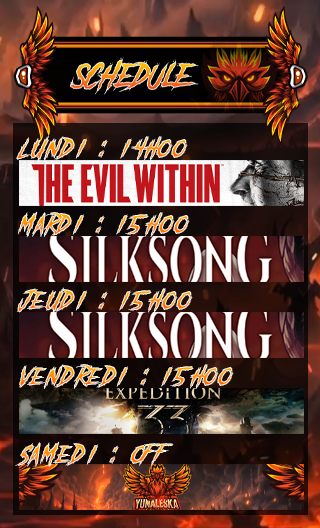
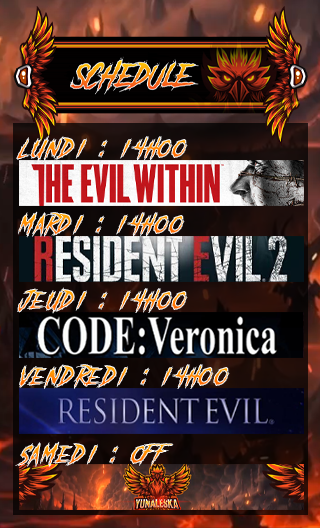
games and achievements updated

Changed region(s): [[0.0625, 0.3939, 0.9688, 0.8485]]

diff --git a/assets/scripts/updates.js b/assets/scripts/updates.js
@@ -1,73 +1,70 @@
 export const updates = [
   {
-    version: "1.26",
-    date: "12-10-2025",
+    version: "1.27",
+    date: "17-11-2025",
     messages: {
       fr: {
         features: [
-          "○ Mise à jour des succès Hollow Knight: Silksong (Steam)",
-          "○ Mise à jour des succès Phasmophobia (Steam)",
-          "○ Mise à jour des succès Borderlands 4 (Steam)",
-          "○ Mise à jour des succès Borderlands (Steam)",
+          "○ Calendrier hebdomadaire pour la semaine du 17 novembre 2025",
+
           "○ Mise à jour des succès The Evil Within (Steam)",
-          "○ Ajout du jeu Megabonk et de ses succès (Steam)",
-          "○ Ajout du jeu Paranormal Night Shift et de ses succès (Steam)",
-          "○ Ajout du jeu The Demonologist et de ses succès (Steam)",
-          "○ Ajout du jeu The Last of Us Part I et de ses succès (Steam)",
-          "○ Ajout du jeu Lost in Random et de ses succès (Steam)",
-          "○ Ajout du jeu Haven et de ses succès (Steam)",
-          "○ Ajout du jeu inZOI (Steam)",
-          "○ Ajout du jeu Dead Island 2 et de ses succès (Steam)",
-          "○ Ajout du jeu Tomb Raider IV-VI Remastered et de ses succès (Steam)",
-          "○ Ajout du jeu AI Limit et de ses succès (Steam)",
-          "○ Ajout de la traduction portuguaise."
+          "○ Mise à jour des succès Phasmophobia (Steam)",
+          "○ Mise à jour des succès Resident Evil 6 (Steam)",
+          "○ Mise à jour des succès Megabonk (Steam)",
+          "○ Mise à jour des succès Powerwash Simulator (Steam)",
+          "○ Mise à jour des trophées The Callisto Protocol (PS5)",
+
+          "○ Ajout du jeu Powerwash Simulator 2 et de ses succès (Steam)",
+          "○ Ajout du jeu Tormented Souls 2 et de ses succès (Steam)",
+          "○ Ajout du jeu Kitaria Fables et de ses succès (Steam)",
+          "○ Ajout du jeu Stray et de ses succès (Steam)",
+          "○ Ajout du jeu Biped 2 et de ses succès (Steam)",
+          "○ Ajout du jeu Bongo Cat et de ses succès (Steam)",
+          "○ Ajout du jeu Beacon Pines et de ses succès (Steam)",
+          "○ Ajout du jeu Elypse et de ses succès (Steam)",
+          "○ Ajout du jeu Alan Wake II et de ses trophées (PS5)",
+          "○ Ajout du jeu Tormented Souls II et de ses trophées (PS5)"
         ],
         fixes: [
-
+          "○ Correction de la couleur du patch notes sur la page Steam",
+          "○ La version sur le footer se met désormais automatiquement à jour",
+          "○ Réparation de la couleur indiquant que l'on est sur la page RetroAchievements"
         ]
       },
       en: {
         features: [
-          "○ Updated Hollow Knight achievements (Steam)",
-          "○ Updated Phasmophobia achievements (Steam)",
-          "○ Updated Borderlands 4 achievements (Steam) (Steam)",
-          "○ Updated Borderlands achievements (Steam)",
+          "○ Weekly schedule for the week of the 17th of november 2025",
+
           "○ Updated The Evil Within achievements (Steam)",
-          "○ Added the game Megabonk and its achievements",
-          "○ Added the game Paranormal Night Shift and its achievements",
-          "○ Added the game The Demonologist and its achievements",
-          "○ Added the game The Last of Us Part I and its achievements",
-          "○ Added the game Lost in Random and its achievements",
-          "○ Added the game Haven and its achievements",
-          "○ Added the game inZOI",
-          "○ Added the game Dead Island 2 and its achievements",
-          "○ Added the game Tomb Raider IV-VI Remastered and its achievements",
-          "○ Added the game AI Limit and its achievements",
-          "○ Added Portuguese translation"
+          "○ Updated Phasmophobia achievements (Steam)",
+          "○ Updated Resident Evil 6 achievements (Steam)",
+          "○ Updated Megabonk achievements (Steam)",
+          "○ Updated Powerwash Simulator achievements (Steam)",
+          "○ Updated The Callisto Protocol trophies (PS5)",
+
+          "○ Added the game Powerwash Simulator 2 and its achievements (Steam)",
+          "○ Added the game Tormented Souls 2 and its achievements (Steam)",
+          "○ Added the game Kitaria Fables and its achievements (Steam)",
+          "○ Added the game Stray and its achievements (Steam)",
+          "○ Added the game Biped 2 and its achievements (Steam)",
+          "○ Added the game Bongo Cat and its achievements (Steam)",
+          "○ Added the game Beacon Pines and its achievements (Steam)" ,
+          "○ Added the game Elypse and its achievements (Steam)",
+          "○ Added the game Alan Wake II and its trophies (PS5)",
+          "○ Added the game Tormented Souls II and its trophies (PS5)"
         ],
         fixes: [
+          "○ Fixed patch notes colors on the Steam page",
+          "○ Number of the website version is now updating itself in the footer",
+          "○ Fixed the color of the arrow, showing where we are on the RetroAchievements page"
         ]
       },
       pt: {
         features: [
-          "○ Conquistas atualizadas de Hollow Knight: Silksong (Steam)",
-          "○ Conquistas atualizadas de Phasmophobia (Steam)",
-          "○ Conquistas atualizadas de Borderlands 4 (Steam)",
-          "○ Conquistas atualizadas de Borderlands (Steam)",
-          "○ Conquistas atualizadas de The Evil Within (Steam)",
-          "○ Adição do jogo Megabonk e dos seus achievements",
-          "○ Adição do jogo Paranormal Night Shift e dos seus achievements",
-          "○ Adição do jogo The Demonologist e dos seus achievements",
-          "○ Adição do jogo The Last of Us Part I e dos seus achievements",
-          "○ Adição do jogo Lost in Random e dos seus achievements",
-          "○ Adição do jogo Haven e dos seus achievements",
-          "○ Adição do jogo inZOI (Steam)",
-          "○ Adição do jogo Dead Island 2 e dos seus achievements",
-          "○ Adição do jogo Tomb Raider IV-VI Remastered e dos seus achievements",
-          "○ Adição do jogo AI Limit e dos seus achievements",
-          "○ Adição da tradução para o português"
+          "Não disponível"
         ],
         fixes: [
+          "Não disponível"
         ]
       }
     }

diff --git a/assets/scripts/footer.js b/assets/scripts/footer.js
@@ -1,54 +1,60 @@
+import { updates } from "./updates.js";
+
 class FooterElement extends HTMLElement {
     connectedCallback() {
         try {
             const page = window.location.pathname.split('/').pop() || 'index.html';
             let ulClasses = 'site-footer social-list';
             let copyrightId = '';
-          
+
             if (page === 'steam.html') {
-              ulClasses += ' footer-steam';
-              copyrightId = 'copyright-steam';
+                ulClasses += ' footer-steam';
+                copyrightId = 'copyright-steam';
             } 
             else if (page === 'nintendo.html') {
-              ulClasses += ' footer-nintendo';
-              copyrightId = 'copyright-nintendo';
+                ulClasses += ' footer-nintendo';
+                copyrightId = 'copyright-nintendo';
             }
-
             else if (page === 'retroachievements.html') {
-              ulClasses += ' footer-retro';
-              copyrightId = 'copyright-retro';
+                ulClasses += ' footer-retro';
+                copyrightId = 'copyright-retro';
             }
-          
-            this.innerHTML = `
-              <footer class="site-footer">
-                  <ul class="${ulClasses}">
-                      <li class="site-footer-item footer-twitch"><a href="https://www.twitch.tv/yunaleska"></a></li>
-                      <li class="site-footer-item footer-youtube"><a href="https://www.youtube.com/@YunaleskaTwitch"></a></li>
-                      <li class="site-footer-item footer-twitter"><a href="https://x.com/YunaleskaTwitch"></a></li>
-                      <li class="site-footer-item footer-discord"><a href="https://discord.gg/r6M5Y2uuT4"></a></li>
-                  </ul>
-                  <p class="site-footer copyright" ${copyrightId ? `id="${copyrightId}"` : ''}>
-                    © 2024-2025 Yunaleska's Collection Version 1.1. Tous droits réservés.
-                  </p>
 
-                  <button id="see-changelog" title="Voir les nouveautés">
-                    <i class="fa-solid fa-newspaper"></i>
-                  </button>
-                  <div id="update-popup" class="popup">
-                    <div class="popup-content">
-                      <h2 id="popup-title"></h2>
-                      <ul id="popup-list"></ul>
-                      <button id="close-popup">OK</button>
+            // 🔥 Récupération automatique de la version
+            const latestVersion = updates[0]?.version || "1.0";
+
+            this.innerHTML = `
+                <footer class="site-footer">
+
+                    <ul class="${ulClasses}">
+                        <li class="site-footer-item footer-twitch"><a href="https://www.twitch.tv/yunaleska"></a></li>
+                        <li class="site-footer-item footer-youtube"><a href="https://www.youtube.com/@YunaleskaTwitch"></a></li>
+                        <li class="site-footer-item footer-twitter"><a href="https://x.com/YunaleskaTwitch"></a></li>
+                        <li class="site-footer-item footer-discord"><a href="https://discord.gg/r6M5Y2uuT4"></a></li>
+                    </ul>
+
+                    <p class="site-footer copyright" ${copyrightId ? `id="${copyrightId}"` : ''}>
+                        © 2024-2025 Yunaleska's Collection — Version ${latestVersion}. Tous droits réservés.
+                    </p>
+
+                    <button id="see-changelog" title="Voir les nouveautés">
+                        <i class="fa-solid fa-newspaper"></i>
+                    </button>
+
+                    <div id="update-popup" class="popup">
+                        <div class="popup-content">
+                            <h2 id="popup-title"></h2>
+                            <ul id="popup-list"></ul>
+                            <button id="close-popup">OK</button>
+                        </div>
                     </div>
-                  </div>
-                  
-              </footer>
+
+                </footer>
             `;
-          } catch (error) {
+        } catch (error) {
             console.error('Footer rendering failed:', error);
-          }          
+        }
     }
-  }
-  
-  customElements.define('custom-footer', FooterElement);
-  
+}
+
+customElements.define('custom-footer', FooterElement);

diff --git a/assets/scripts/lang.js b/assets/scripts/lang.js
@@ -15,9 +15,7 @@ const translations = {
     subTwo: "Abonnement tier 2",
     subThree: "Abonnement tier 3",
     subBadges: "Badges d'abonnement",
-    weeklyCalendar: "Evil October",
-    linkOctober: "Planning du mois",
-    linkOctoberImg: "assets/images/fr-schedule.png" // <-- image du planning pour fr
+    weeklyCalendar: "Calendrier hebdomadaire"
   },
   en: {
     welcome: "Introduction",
@@ -35,9 +33,7 @@ const translations = {
     subTwo: "Subscription tier 2",
     subThree: "Subscription tier 3",
     subBadges: "Subscription Badges",
-    weeklyCalendar: "Evil October",
-    linkOctober: "Monthly schedule",
-    linkOctoberImg: "assets/images/en-schedule.png" // <-- image du planning pour en
+    weeklyCalendar: "Weekly Schedule"
   },
   pt: {
     welcome: "Introdução",
@@ -56,9 +52,7 @@ const translations = {
     subTwo: "Subscrição Nível 2",
     subThree: "Subscrição Nível 3",
     subBadges: "Emblemas Subscriçãos",
-    weeklyCalendar: "Evil October",
-    linkOctober: "Programação mensal",
-    linkOctoberImg: "assets/images/pt-schedule.png" // <-- image du planning pour pt
+    weeklyCalendar: "Programação semanal"
   }
 };
 

diff --git a/index.html b/index.html
@@ -115,8 +115,7 @@
 						<div class="twitch-rewards">
 							<h2 data-i18n="weeklyCalendar">Evil October</h2>
 							<div class="week-planning">
-								<a href="https://yunaleska-gaming.github.io/Halloween-2025" data-i18n="linkOctober" class="planning-link">Planning du mois</a>
-								<img id="planning" data-i18n-img="linkOctoberImg" src="assets/images/fr-schedule.png" alt="Planning">
+								<img src="assets/images/planning.png">
 							</div>
 						</div>
 				</section>
@@ -125,7 +124,7 @@
 		</div>
 
 		<script src="assets/scripts/header.js"></script>
-		<script src="assets/scripts/footer.js"></script>
+		<script src="/assets/scripts/footer.js" type="module"></script>
 		<script type="module">import fetchData from './assets/scripts/index.js';fetchData();</script>
 		<script src="assets/scripts/wherami.js"></script>
 		<script src="assets/scripts/darkmode.js"></script>

diff --git a/wish-list.html b/wish-list.html
@@ -43,7 +43,7 @@
 		<script type="module">import createWishItem from './assets/scripts/wishlist.js';createWishItem('steam');</script>
 		<script type="module">import createWishItem from './assets/scripts/wishlist.js';createWishItem('ds');</script>
 		<script src="assets/scripts/header.js"></script>
-		<script src="assets/scripts/footer.js"></script>
+		<script src="/assets/scripts/footer.js" type="module"></script>
 		<script src="assets/scripts/wherami.js"></script>
 		<script src="assets/scripts/darkmode.js"></script>
 		<script type="module" src="assets/scripts/updates.js"></script>

diff --git a/steam.html b/steam.html
@@ -68,7 +68,7 @@
             </main>
             <custom-footer></custom-footer>
             <script src="assets/scripts/header.js"></script>
-            <script src="assets/scripts/footer.js"></script>
+            <script src="/assets/scripts/footer.js" type="module"></script>
             <script type="module" src="assets/scripts/utils.js"></script>
             <script type="module" src="assets/scripts/steam.js"></script>
             <script type="module">import fetchData from './assets/scripts/steam.js';fetchData('steam');</script>

diff --git a/ps3.html b/ps3.html
@@ -101,7 +101,7 @@
 			<custom-footer></custom-footer>  
 		</div>
 		<script src="assets/scripts/header.js"></script>
-		<script src="assets/scripts/footer.js"></script>
+		<script src="/assets/scripts/footer.js" type="module"></script>
 		<script type="module">import fetchData from './assets/scripts/ps.js';fetchData('ps3');</script>
 	 	<script src="assets/scripts/wherami.js"></script>  
 		<script src="assets/scripts/darkmode.js"></script>

diff --git a/ps4.html b/ps4.html
@@ -98,7 +98,7 @@
 			<custom-footer></custom-footer>
 		</div>
 		<script src="assets/scripts/header.js"></script>
-		<script src="assets/scripts/footer.js"></script>
+		<script src="/assets/scripts/footer.js" type="module"></script>
 		<script type="module">import fetchData from './assets/scripts/ps.js';fetchData('ps4');</script>
 		<script src="assets/scripts/wherami.js"></script>
 		<script src="assets/scripts/darkmode.js"></script>

diff --git a/ps5.html b/ps5.html
@@ -98,7 +98,7 @@
 			<custom-footer></custom-footer>
 		</div>
 		<script src="assets/scripts/header.js"></script>
-		<script src="assets/scripts/footer.js"></script>
+		<script src="/assets/scripts/footer.js" type="module"></script>
 		<script type="module">import fetchData from './assets/scripts/ps.js';fetchData('ps5');</script>
 		<script src="assets/scripts/wherami.js"></script>
 		<script src="assets/scripts/darkmode.js"></script>

diff --git a/nintendo.html b/nintendo.html
@@ -54,7 +54,7 @@
 		<custom-footer></custom-footer>
 	</div>
 	<script src="assets/scripts/header.js"></script>
-	<script src="assets/scripts/footer.js"></script>
+	<script src="/assets/scripts/footer.js" type="module"></script>
 	<script type="module">import fetchData from './assets/scripts/nintendo.js';fetchData();</script>
 	<script src="assets/scripts/wherami.js"></script>
 	<script src="assets/scripts/darkmode.js"></script>

diff --git a/retroachievements.html b/retroachievements.html
@@ -109,7 +109,7 @@
 	</div>
 
 	<script src="assets/scripts/header.js"></script>
-	<script src="assets/scripts/footer.js"></script>
+	<script src="/assets/scripts/footer.js" type="module"></script>
 	<script src="assets/scripts/wherami.js"></script>
 	<script type="module" src="assets/scripts/utils.js"></script>
 	<script type="module" src="assets/scripts/retroachievements.js"></script>

diff --git a/assets/css/games-retro.css b/assets/css/games-retro.css
@@ -26,6 +26,7 @@ html,
 }
 
 .link:hover { color : var(--second-color); background-color: var(--main-text-color); }
+.selected:after { border-color : transparent transparent var(--main-text-color) transparent; }
 .selected:hover:after { border-color : transparent transparent var(--second-color) transparent; }
 
 /* DARKMODE BOUTON */
